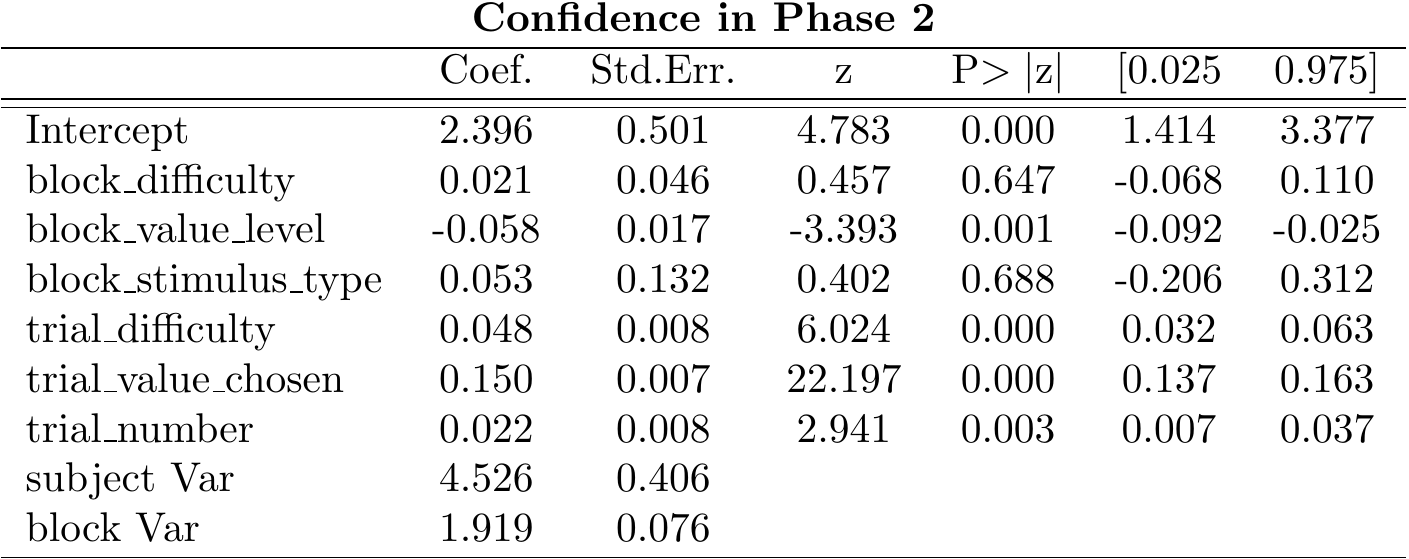
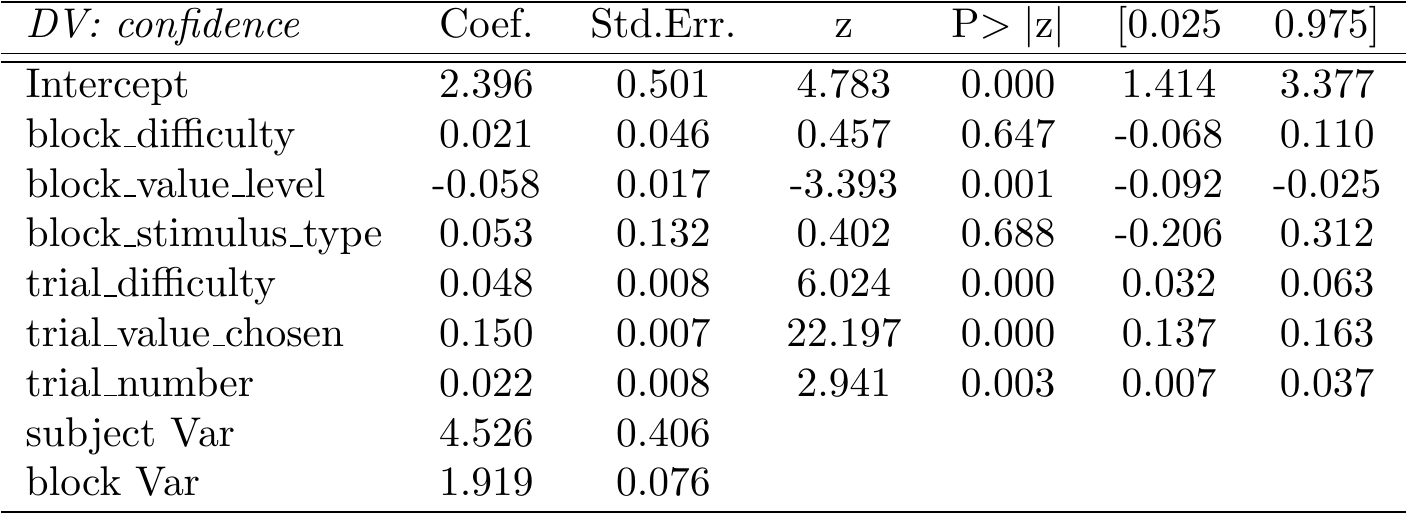
Regression table update

Changed region(s): [[0.0, 0.0, 0.9993, 1.0]]

diff --git a/util/model_to_latex.py b/util/model_to_latex.py
@@ -4,7 +4,7 @@ from matplotlib import rcParams
 import os
 from pathlib import Path
 
-def as_latex(model, title=None, print_meta=True, single_table=False):
+def as_latex(model, title=None, DV=None, print_meta=True, single_table=False):
     '''Generate LaTeX Summary Table
     '''
     tables = model.tables
@@ -33,16 +33,17 @@ def as_latex(model, title=None, print_meta=True, single_table=False):
     out = '\n'.join(out)
     if single_table:
         out = out.replace('\\end{tabular}\n\\begin{tabular}{lrrrrrr}\n', '')
+    if DV is not None:
+        out = out.replace('& Coef.', '\\textit{DV: ' + DV + '} & Coef.')
     return out
 
 
-def latex_to_png(model, outpath='out.png', title=None):
+def latex_to_png(model, outpath='out.png', title=None, DV=None):
     rcParams['text.usetex'] = True
 
     beginningtex = r"""\documentclass[preview]{standalone}\thispagestyle{empty}\usepackage{booktabs}\usepackage[font=bf,aboveskip=0pt]{caption}\begin{document}"""
     endtex = r"\end{document}"
-    title = '' if title is None else title
-    content = as_latex(model.summary(), print_meta=False, single_table=True, title=title)
+    content = as_latex(model.summary(), print_meta=False, single_table=True, title=title, DV=DV)
     latex = beginningtex + content + endtex
 
     f = open('latex/document.tex', 'w')

diff --git a/stats/latex/document.tex b/stats/latex/document.tex
@@ -1,9 +1,8 @@
 \documentclass[preview]{standalone}\thispagestyle{empty}\usepackage{booktabs}\usepackage[font=bf,aboveskip=0pt]{caption}\begin{document}\begin{table}
-\caption*{Confidence in Phase 2}
 \begin{center}
 \begin{tabular}{lcccccc}
 \hline
-                      & Coef.  & Std.Err. &   z    & P$> |$z$|$ & [0.025 & 0.975]  \\
+                      \textit{DV: confidence} & Coef.  & Std.Err. &   z    & P$> |$z$|$ & [0.025 & 0.975]  \\
 \hline
 \hline
 Intercept             &  2.396 &    0.501 &  4.783 &       0.000 &  1.414 &  3.377  \\

diff --git a/stats/confidence_effect_phase2.py b/stats/confidence_effect_phase2.py
@@ -43,4 +43,5 @@ model = linear_regression(
     print_data=False
 )
 
-latex_to_png(model, outpath=os.path.join(os.getcwd(), 'regtables', f'{Path(__file__).stem}.png'), title='Confidence in Phase 2')
+latex_to_png(model, outpath=os.path.join(os.getcwd(), 'regtables', f'{Path(__file__).stem}.png'),
+             title=None, DV='confidence')
